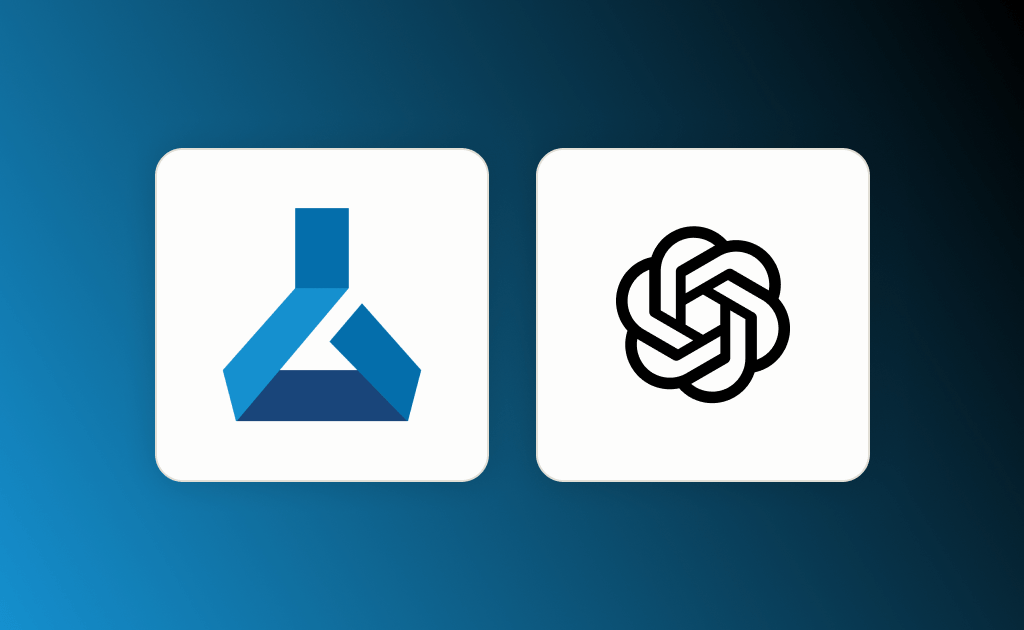
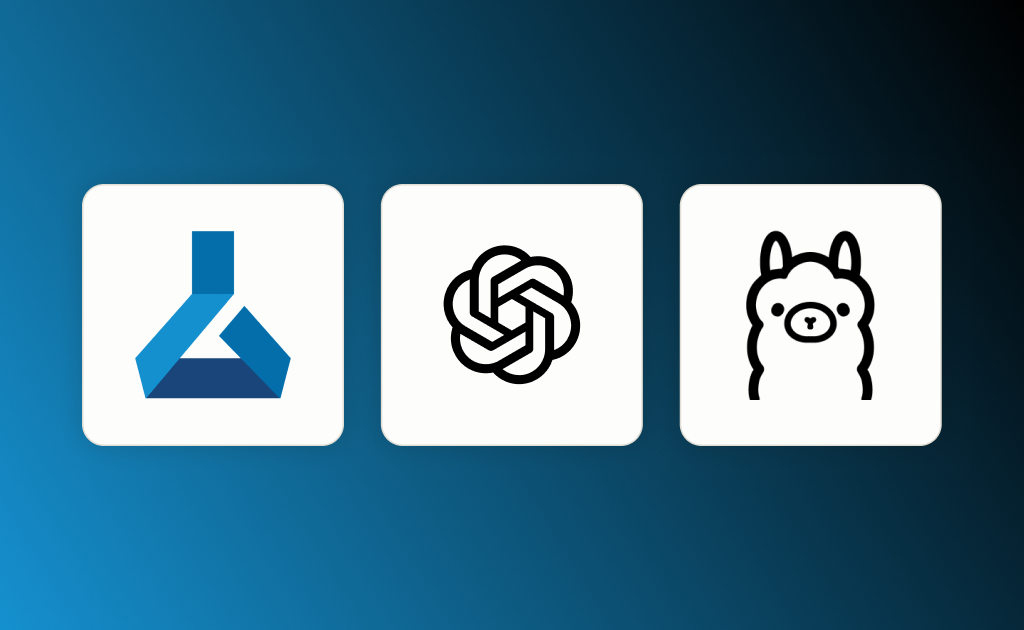
docs: ML backend updates (#6004)

Changed region(s): [[0.0625, 0.2111, 0.9375, 0.7841]]

diff --git a/docs/source/guide/ml_tutorials.html b/docs/source/guide/ml_tutorials.html
@@ -70,13 +70,14 @@ cards:
   - Large Language Model
   - OpenAI
   - Azure
+  - Ollama
   - ChatGPT
   hide_frontmatter_title: true
   hide_menu: true
   image: /tutorials/llm-interactive.png
-  meta_description: Label Studio tutorial for interactive LLM labeling with OpenAI
-    or Azure API
-  meta_title: Interactive LLM labeling with OpenAI or Azure API
+  meta_description: Label Studio tutorial for interactive LLM labeling with OpenAI,
+    Azure, or Ollama
+  meta_title: Interactive LLM labeling with OpenAI, Azure, or Ollama
   order: 5
   tier: all
   title: Interactive LLM labeling with GPT

diff --git a/docs/source/tutorials/gliner.md b/docs/source/tutorials/gliner.md
@@ -22,7 +22,9 @@ image: "/tutorials/gliner.png"
 
 # Use GLiNER for NER annotation
 
-The GLiNER model is a BERT family model for generalist NER. We download the model from HuggingFace, but the original model is available on [GitHub](https://github.com/urchade/GLiNER).
+The GLiNER model is a BERT family model for generalist NER. We download the model from HuggingFace, but the original
+model is
+available on [GitHub](https://github.com/urchade/GLiNER).
 
 
 ## Running with Docker (recommended)
@@ -78,4 +80,4 @@ The following common parameters are available:
 - `WORKERS` - Specify the number of workers for the model server.
 - `THREADS` - Specify the number of threads for the model server.
 - `LABEL_STUDIO_URL` - Specify the URL of your Label Studio instance. Note that this might need to be `http://host.docker.internal:8080` if you are running Label Studio on another Docker container.
-- `LABEL_STUDIO_API_KEY`- Specify the API key for authenticating your Label Studio instance. You can find this by logging into Label Studio and [going to the **Account & Settings** page](https://labelstud.io/guide/user_account#Access-token).
+- `LABEL_STUDIO_API_KEY`- Specify the API key for authenticating your Label Studio instance. You can find this by logging into Label Studio and and [going to the **Account & Settings** page](https://labelstud.io/guide/user_account#Access-token).

diff --git a/docs/source/tutorials/llm_interactive.md b/docs/source/tutorials/llm_interactive.md
@@ -5,13 +5,14 @@ tier: all
 order: 5
 hide_menu: true
 hide_frontmatter_title: true
-meta_title: Interactive LLM labeling with OpenAI or Azure API
-meta_description: Label Studio tutorial for interactive LLM labeling with OpenAI or Azure API
+meta_title: Interactive LLM labeling with OpenAI, Azure, or Ollama
+meta_description: Label Studio tutorial for interactive LLM labeling with OpenAI, Azure, or Ollama
 categories:
     - Generative AI
     - Large Language Model
     - OpenAI
     - Azure
+    - Ollama
     - ChatGPT
 image: "/tutorials/llm-interactive.png"
 ---
